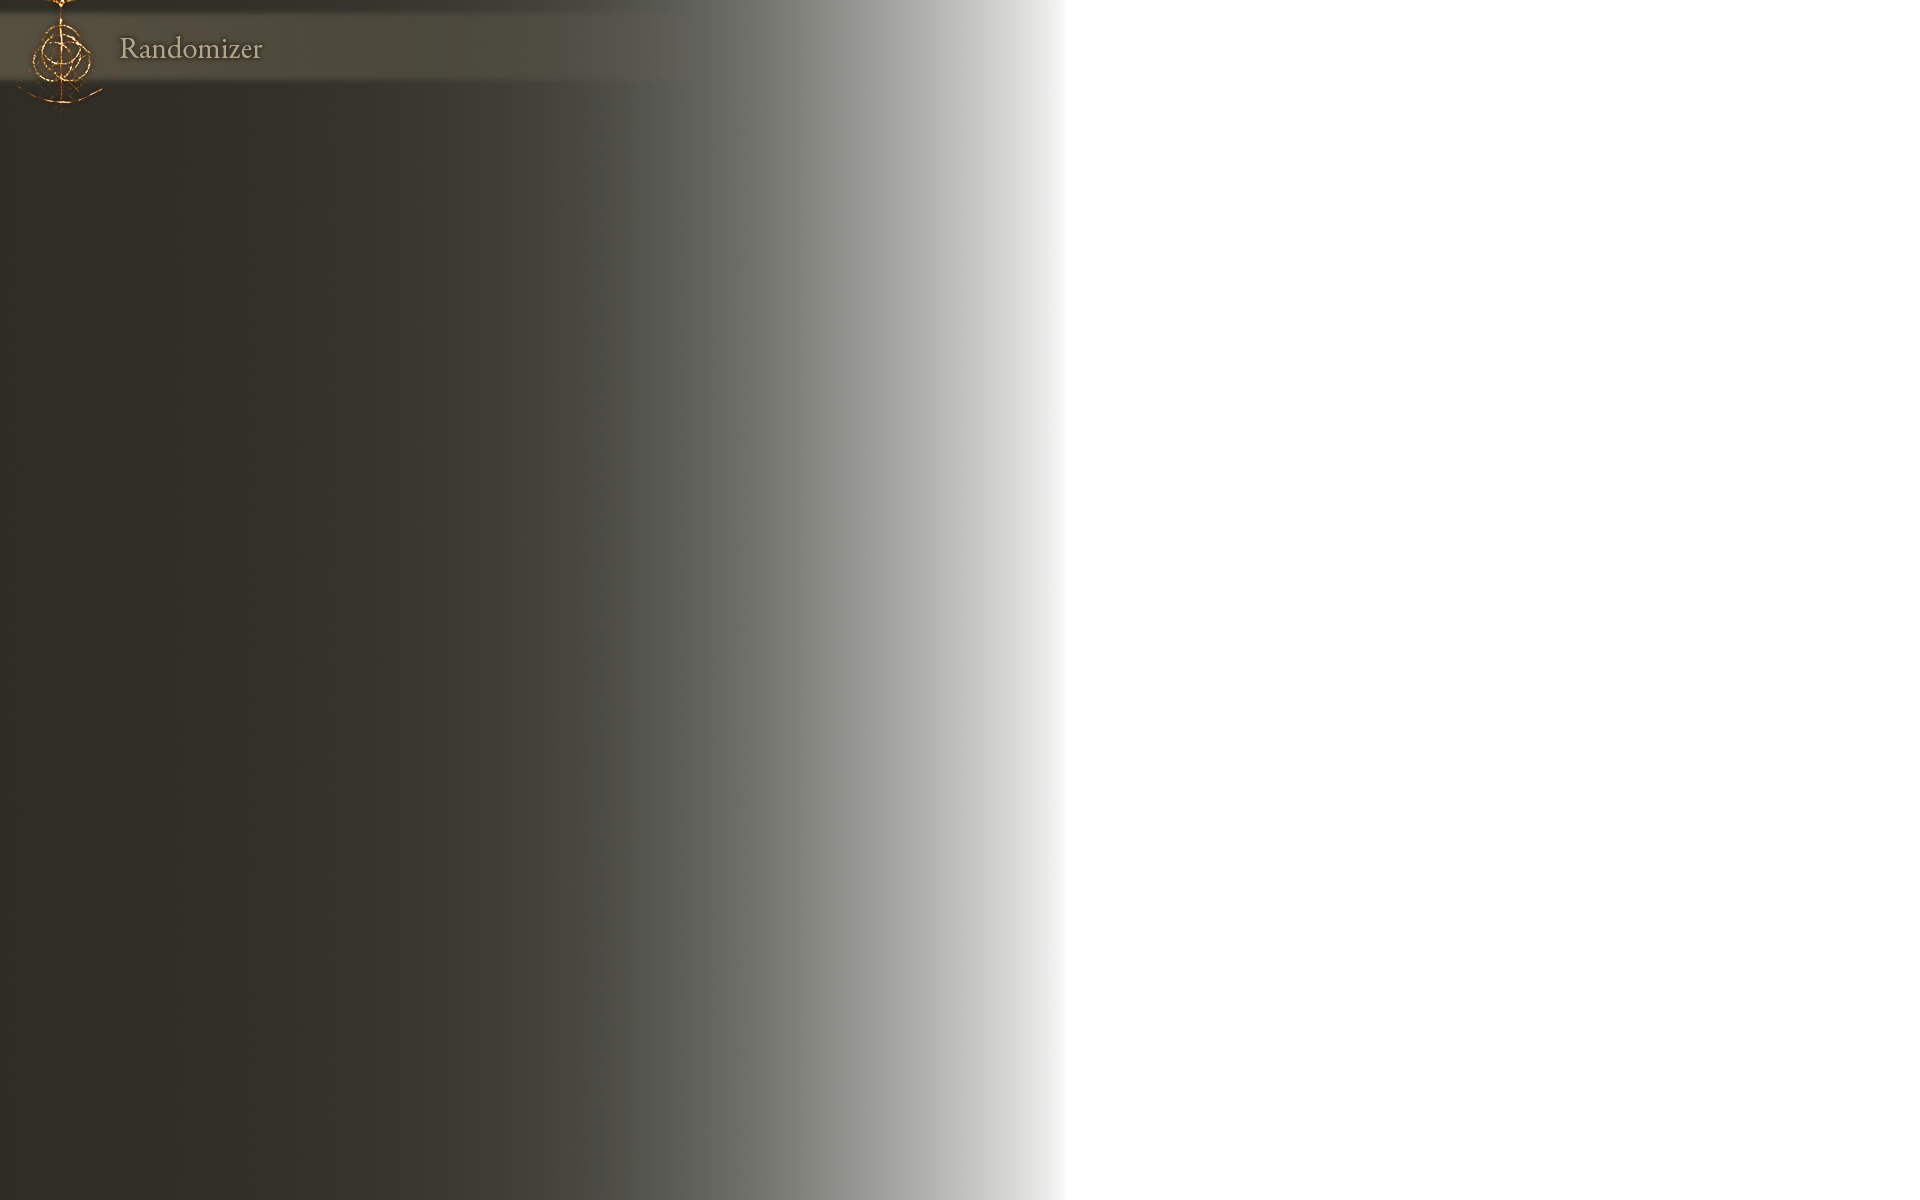
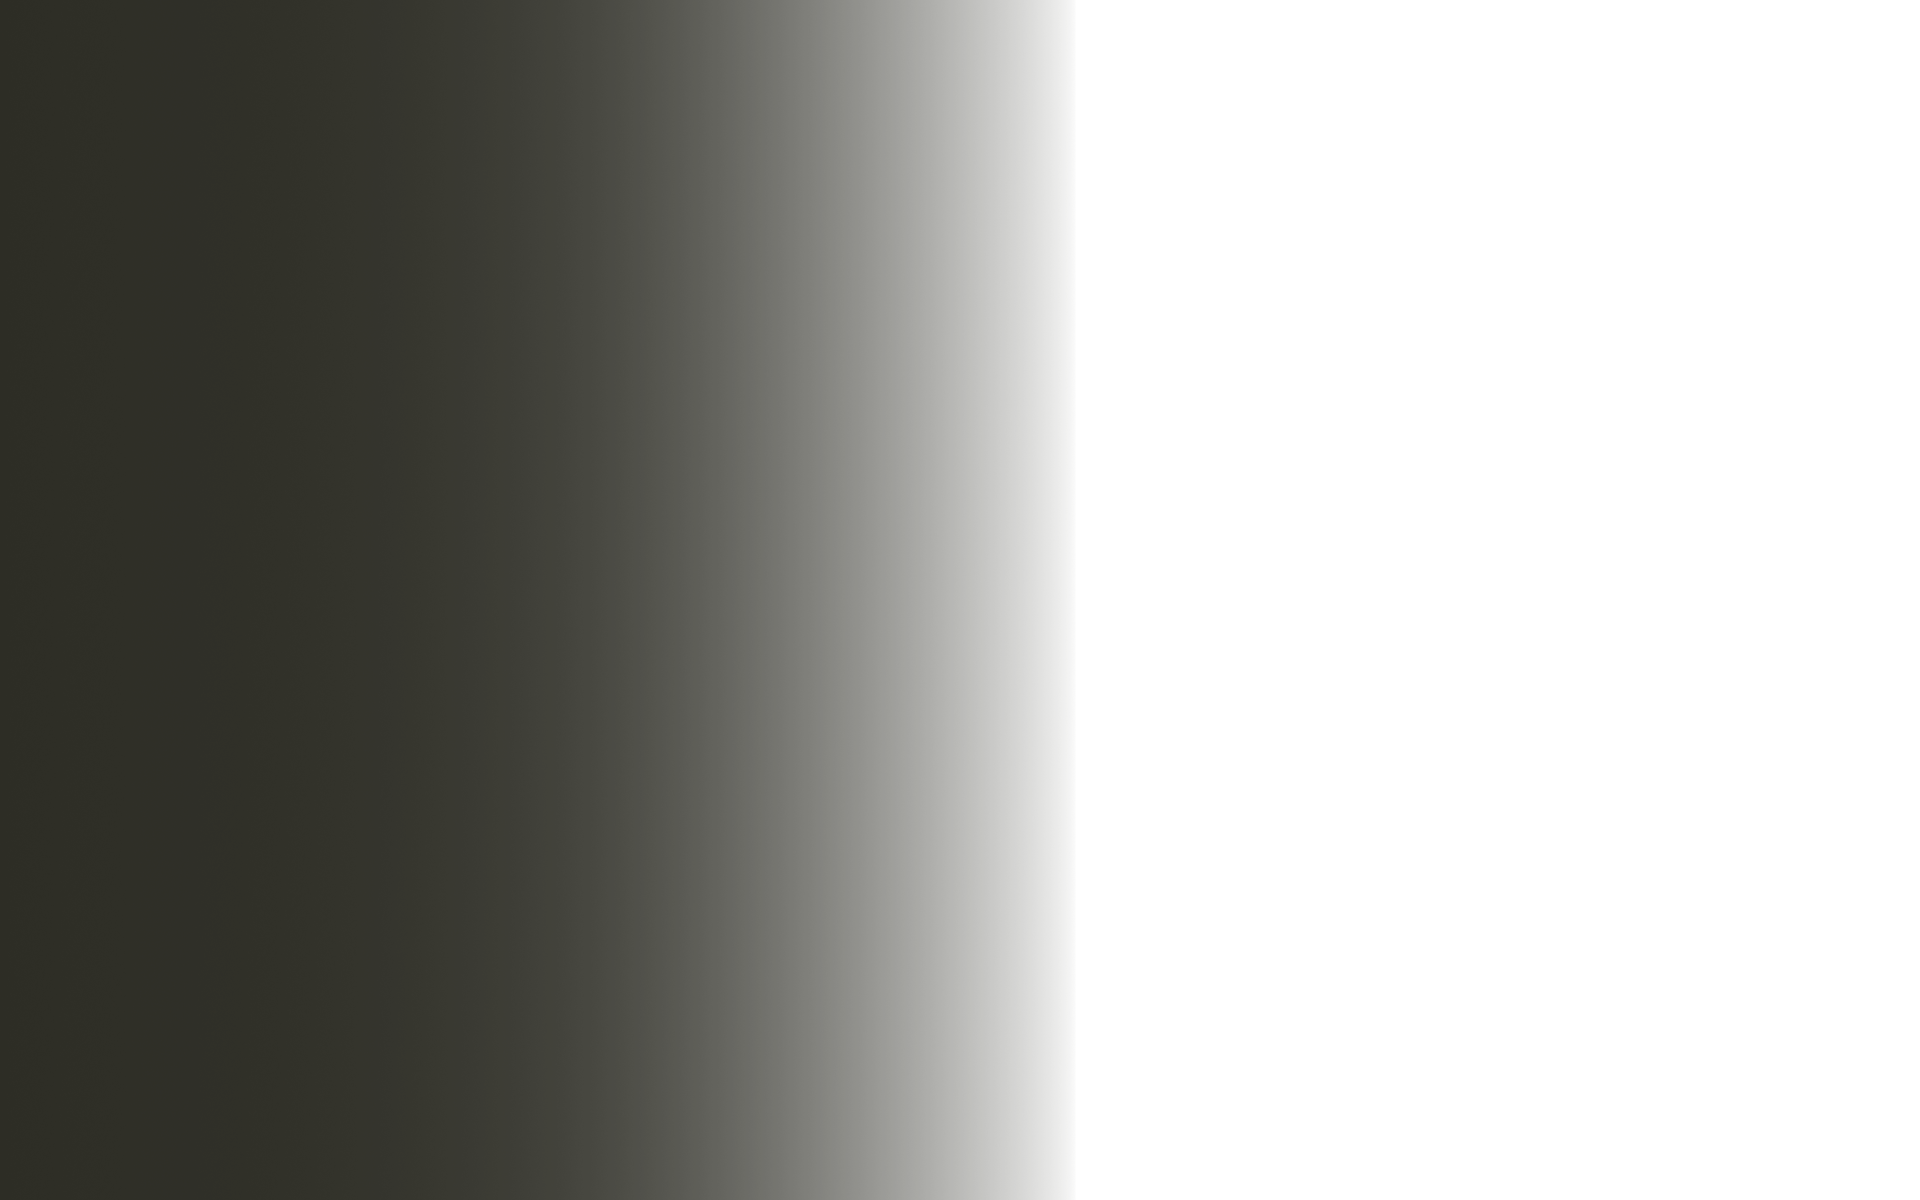
Finished Facial Structure section of ui code, starting on Forehead/Glabella section

Changed region(s): [[0.0, 0.0, 0.2188, 0.0925]]

diff --git a/eldenRandomizer.py b/eldenRandomizer.py
@@ -27,6 +27,7 @@ title_img = pygame.image.load('images/title.png')
 #textShadow = pygame.image.load('images/textShadow.png')
 #shadowSize = textShadow.get_width(), textShadow.get_height()
 randResults_grad = pygame.image.load('images/randomizerScreen_gradient.png')
+randResults_grad_title = pygame.image.load('images/randomizerScreen_gradient_title.png')
 #randResults_screen = pygame.transform.scale(randResults_grad, (1920, 1200))
 
 #Button Class
@@ -70,51 +71,115 @@ def main():
     bonestructure_results = button_font.render(str(attributes[6][0]), True, (200,200,198))
     bonestructure_w, bonestructure_h = button_font.size(str(attributes[6][0]))
 
+    formemphasis_results = button_font.render(str(attributes[6][1]), True, (200,200,198))
+    formemphasis_w, formemphasis_h = button_font.size(str(attributes[6][1]))
+
+    apparent_age_results = button_font.render(str(attributes[6][2]), True, (200,200,198))
+    apparent_age_w, apparent_age_h = button_font.size(str(attributes[6][2]))
+
+    facial_aesthetic_results = button_font.render(str(attributes[6][3]), True, (200,200,198))
+    facial_aesthetic_w, facial_aesthetic_h = button_font.size(str(attributes[6][3]))
+
+    nose_size_results = button_font.render(str(attributes[7][0][0]), True, (200,200,198))
+    nose_size_w, nose_size_h = button_font.size(str(attributes[7][0][0]))
+
+    nf_ratio_results = button_font.render(str(attributes[7][0][1]), True, (200,200,198))
+    nf_ratio_w, nf_ratio_h = button_font.size(str(attributes[7][0][1]))
+
+    face_prot_results = button_font.render(str(attributes[7][0][2]), True, (200,200,198))
+    face_prot_w, face_prot_h = button_font.size(str(attributes[7][0][2]))
+
+    vface_ratio_results = button_font.render(str(attributes[7][0][3]), True, (200,200,198))
+    vface_ratio_w, vface_ratio_h = button_font.size(str(attributes[7][0][3]))
+
+    faceSlant_results = button_font.render(str(attributes[7][0][4]), True, (200,200,198))
+    faceSlant_w, faceSlant_h = button_font.size(str(attributes[7][0][4]))
+
+    hFaceRatio_results = button_font.render(str(attributes[7][0][5]), True, (200,200,198))
+    hFaceRatio_w, hFaceRatio_h = button_font.size(str(attributes[7][0][5]))
+
+    foreheadDepth_results = button_font.render(str(attributes[7][1][0]), True, (200,200,198))
+    foreheadDepth_w, foreheadDepth_h = button_font.size(str(attributes[7][1][0]))
+
     #skinCol = pygame.draw.rect(screen,attributes[5],(505,401,398,31))
 
     titlePos = ((resolution[0]/2) - (title_img.get_width()/2), 0 + (title_img.get_height()/4))
     isRandButtonClicked = False
     scrollWheel = 0
+    uiOffset = -(77*2)
     while running:
-
-        
-        
         origin_img = pygame.image.load('images/ER_origin.png').convert_alpha()
-        origin_button = button.Button((origin_img.get_width()/2) - (origin_img.get_width()/3) + 77,
+        origin_button = button.Button((origin_img.get_width()/2) - (origin_img.get_width()/3) + 77 + uiOffset,
                                     213+60+scrollWheel,origin_img,1)
-        
         bodytype_img = pygame.image.load('images/ER_bodytype.png').convert_alpha()
-        bodytype_button = button.Button((bodytype_img.get_width()/2) - (bodytype_img.get_width()/3) + 77,
+        bodytype_button = button.Button((bodytype_img.get_width()/2) - (bodytype_img.get_width()/3) + 77 + uiOffset,
                                     213+(60*2)+scrollWheel,bodytype_img,1)
-        
         keepsake_img = pygame.image.load('images/ER_keepsake.png').convert_alpha()
-        keepsake_button = button.Button((keepsake_img.get_width()/2) - (keepsake_img.get_width()/3) + 77,
+        keepsake_button = button.Button((keepsake_img.get_width()/2) - (keepsake_img.get_width()/3) + 77 + uiOffset,
                                     213+(60*3)+scrollWheel,keepsake_img,1)
-        
         detailed_appearance_img = pygame.image.load('images/ER_detailedAppearance.png').convert_alpha()
-        detailed_appearance_button = button.Button((detailed_appearance_img.get_width()/2) - (detailed_appearance_img.get_width()/3) + 77,
+        detailed_appearance_button = button.Button((detailed_appearance_img.get_width()/2) - (detailed_appearance_img.get_width()/3) + 77 + uiOffset,
                                     213+(60*5)+scrollWheel,detailed_appearance_img,1)
-        
         age_img = pygame.image.load('images/ER_age.png').convert_alpha()
-        age_button = button.Button((age_img.get_width()/2) - (age_img.get_width()/3) + (77*2),
+        age_button = button.Button((age_img.get_width()/2) - (age_img.get_width()/3) + (77*2) + uiOffset,
                                     213+(60*6)+scrollWheel,age_img,1)
-        
         voice_img = pygame.image.load('images/ER_voice.png').convert_alpha()
-        voice_button = button.Button((voice_img.get_width()/2) - (voice_img.get_width()/3) + (77*2),
+        voice_button = button.Button((voice_img.get_width()/2) - (voice_img.get_width()/3) + (77*2) + uiOffset,
                                     213+(60*7)+scrollWheel,voice_img,1)
-        
         skinCol_img = pygame.image.load('images/ER_skincol.png').convert_alpha()
-        skinCol_button = button.Button((skinCol_img.get_width()/2) - (skinCol_img.get_width()/3) + (77*2),
+        skinCol_button = button.Button((skinCol_img.get_width()/2) - (skinCol_img.get_width()/3) + (77*2) + uiOffset,
                                     213+(60*8)+scrollWheel,skinCol_img,1)
         face_hair_img = pygame.image.load('images/ER_face-hair.png').convert_alpha()
-        face_hair_button = button.Button((face_hair_img.get_width()/2) - (face_hair_img.get_width()/3) + (77),
+        face_hair_button = button.Button((face_hair_img.get_width()/2) - (face_hair_img.get_width()/3) + (77) + uiOffset,
                                     213+(60*9)+scrollWheel,face_hair_img,1)
         facetemplate_img = pygame.image.load('images/ER_facetemplate.png').convert_alpha()
-        facetemplate_button = button.Button((facetemplate_img.get_width()/2) - (facetemplate_img.get_width()/3) + (77*2),
+        facetemplate_button = button.Button((facetemplate_img.get_width()/2) - (facetemplate_img.get_width()/3) + (77*2) + uiOffset,
                                     213+(60*10)+scrollWheel,facetemplate_img,1)
         bonestructure_img = pygame.image.load('images/ER_bonestructure.png').convert_alpha()
-        bonestructure_button = button.Button((bonestructure_img.get_width()/2) - (bonestructure_img.get_width()/3) + (77*3),
+        bonestructure_button = button.Button((bonestructure_img.get_width()/2) - (bonestructure_img.get_width()/3) + (77*3) + uiOffset,
                                     213+(60*11)+scrollWheel,bonestructure_img,1)
+        formemphasis_img = pygame.image.load('images/ER_formemphasis.png').convert_alpha()
+        formemphasis_button = button.Button((formemphasis_img.get_width()/2) - (formemphasis_img.get_width()/3) + (77*3) + uiOffset,
+                                    213+(60*12)+scrollWheel,formemphasis_img,1)
+        apparent_age_img = pygame.image.load('images/ER_apparent_age.png').convert_alpha()
+        apparent_age_button = button.Button((apparent_age_img.get_width()/2) - (apparent_age_img.get_width()/3) + (77*3) + uiOffset,
+                                    213+(60*13)+scrollWheel,apparent_age_img,1)
+        facial_aesthetic_img = pygame.image.load('images/ER_facial-aesthetic.png').convert_alpha()
+        facial_aesthetic_button = button.Button((facial_aesthetic_img.get_width()/2) - (facial_aesthetic_img.get_width()/3) + (77*3) + uiOffset,
+                                    213+(60*14)+scrollWheel,facial_aesthetic_img,1)
+        
+        facialstructure_img = pygame.image.load('images/ER_facialstructure.png').convert_alpha()
+        facialstructure_button = button.Button((facialstructure_img.get_width()/2) - (facialstructure_img.get_width()/3) + (77*2) + uiOffset,
+                                    213+(60*15)+scrollWheel,facialstructure_img,1)
+        
+        facialbalance_img = pygame.image.load('images/ER_facialbalance.png').convert_alpha()
+        facialbalance_button = button.Button((facialbalance_img.get_width()/2) - (facialbalance_img.get_width()/3) + (77*3) + uiOffset,
+                                    213+(60*16)+scrollWheel,facialbalance_img,1)
+        nose_size_img = pygame.image.load('images/ER_nose_size.png').convert_alpha()
+        nose_size_button = button.Button((nose_size_img.get_width()/2) - (nose_size_img.get_width()/3) + (77*4) + uiOffset,
+                                    213+(60*17)+scrollWheel,nose_size_img,1)
+        nf_ratio_img = pygame.image.load('images/ER_nose_forehead_ratio.png').convert_alpha()
+        nf_ratio_button = button.Button((nf_ratio_img.get_width()/2) - (nf_ratio_img.get_width()/3) + (77*4) + uiOffset,
+                                    213+(60*18)+scrollWheel,nf_ratio_img,1)
+        face_prot_img = pygame.image.load('images/ER_face_protrusion.png').convert_alpha()
+        face_prot_button = button.Button((face_prot_img.get_width()/2) - (face_prot_img.get_width()/3) + (77*4) + uiOffset,
+                                    213+(60*19)+scrollWheel,face_prot_img,1)
+        vface_ratio_img = pygame.image.load('images/ER_vert_face_ratio.png').convert_alpha()
+        vface_ratio_button = button.Button((vface_ratio_img.get_width()/2) - (vface_ratio_img.get_width()/3) + (77*4) + uiOffset,
+                                    213+(60*20)+scrollWheel,vface_ratio_img,1)
+        faceSlant_img = pygame.image.load('images/ER_facial_feature_slant.png').convert_alpha()
+        faceSlant_button = button.Button((faceSlant_img.get_width()/2) - (faceSlant_img.get_width()/3) + (77*4) + uiOffset,
+                                    213+(60*21)+scrollWheel,faceSlant_img,1)
+        hFaceRatio_img = pygame.image.load('images/ER_horiz_face_ratio.png').convert_alpha()
+        hFaceRatio_button = button.Button((hFaceRatio_img.get_width()/2) - (hFaceRatio_img.get_width()/3) + (77*4) + uiOffset,
+                                    213+(60*22)+scrollWheel,hFaceRatio_img,1)
+        foreheadGlabella_img = pygame.image.load('images/ER_forehead-glabella.png').convert_alpha()
+        foreheadGlabella_button = button.Button((foreheadGlabella_img.get_width()/2) - (foreheadGlabella_img.get_width()/3) + (77*3) + uiOffset,
+                                    213+(60*23)+scrollWheel,foreheadGlabella_img,1)
+        foreheadDepth_img = pygame.image.load('images/ER_forehead_depth.png').convert_alpha()
+        foreheadDepth_button = button.Button((foreheadDepth_img.get_width()/2) - (foreheadDepth_img.get_width()/3) + (77*4) + uiOffset,
+                                    213+(60*24)+scrollWheel,foreheadDepth_img,1)
+        
         #Randomizer Results Screen
         if randomize_button.draw(screen) == True or isRandButtonClicked == True:
             isRandButtonClicked = True
@@ -123,45 +188,104 @@ def main():
                                         ((resolution[1]) - (randResults_grad.get_height()))))
             origin_button.draw(screen)
             screen.blit(origin_results, 
-                        (((origin_img.get_width())*(1-0.44326617179)) + (199) + (origin_w/2),
+                        (((origin_img.get_width())*(1-0.44326617179)) + (199) + (origin_w/2) + uiOffset,
                         213+(60*1)+(origin_h/2.5)+scrollWheel))
             
             bodytype_button.draw(screen)
             screen.blit(bodytype_results, 
-                        (((bodytype_img.get_width())*(1-0.44326617179)) + (199) + (bodytype_w/2),
+                        (((bodytype_img.get_width())*(1-0.44326617179)) + (199) + (bodytype_w/2) + uiOffset,
                         213+(60*2)+(bodytype_h/2.5)+scrollWheel))
             
             keepsake_button.draw(screen)
             screen.blit(keepsake_results, 
-                        (((keepsake_img.get_width())*(1-0.44326617179)) + (199) + (keepsake_w/2),
+                        (((keepsake_img.get_width())*(1-0.44326617179)) + (199) + (keepsake_w/2) + uiOffset,
                         213+(60*3)+(keepsake_h/2.5)+scrollWheel))
             
             detailed_appearance_button.draw(screen)
 
             age_button.draw(screen)
             screen.blit(age_results, 
-                        (((age_img.get_width())*(1-0.44326617179)) + (77/(1-0.38693467336)) + (199) + (age_w/2),
+                        (((age_img.get_width())*(1-0.44326617179)) + (77/(1-0.38693467336)) + (199) + (age_w/2) + uiOffset,
                         213+(60*6)+(age_h/2.5)+scrollWheel))
             
             voice_button.draw(screen)
             screen.blit(voice_results, 
-                        (((voice_img.get_width())*(1-0.44326617179)) + (77/(1-0.38693467336)) + (199) + (voice_w/2),
+                        (((voice_img.get_width())*(1-0.44326617179)) + (77/(1-0.38693467336)) + (199) + (voice_w/2) + uiOffset,
                         213+(60*7)+(voice_h/2.5)+scrollWheel))
             
             skinCol_x = 505 - 42 + 154 + (77/2) + 5 + (77/(1))
             skinCol_y = 401+40-(age_img.get_height()/2) + (60*5)
             skinCol_button.draw(screen)
-            pygame.draw.rect(screen,attributes[5],(skinCol_x,skinCol_y+scrollWheel,380,31))
+            pygame.draw.rect(screen,attributes[5],(skinCol_x + uiOffset,skinCol_y+scrollWheel,380,31))
 
+            # Adjust Face/Hair Section
             face_hair_button.draw(screen)
 
+            ## Face Template Section
             facetemplate_button.draw(screen)
 
             bonestructure_button.draw(screen)
             screen.blit(bonestructure_results, 
-                        (((bonestructure_img.get_width())*(1-0.44326617179)) + (77/(1-0.38693467336))*3 + (199) + (bonestructure_w/2),
+                        (((bonestructure_img.get_width())*(1-0.44326617179)) + (77/(1-0.38693467336))*3 + (199) - (bonestructure_w*3) + uiOffset,
                         213+(60*11)+(bonestructure_h/2.5)+scrollWheel))
             
+            formemphasis_button.draw(screen)
+            screen.blit(formemphasis_results, 
+                        (((formemphasis_img.get_width())*(1-0.44326617179)) + (77/(1-0.38693467336))*3 + (199) - (formemphasis_w*3) + uiOffset,
+                        213+(60*12)+(formemphasis_h/2.5)+scrollWheel))
+            
+            apparent_age_button.draw(screen)
+            screen.blit(apparent_age_results, 
+                        (((apparent_age_img.get_width())*(1-0.44326617179)) + (77/(1-0.38693467336))*3 + (199) - (apparent_age_w*3) + uiOffset,
+                        213+(60*13)+(apparent_age_h/2.5)+scrollWheel))
+            
+            facial_aesthetic_button.draw(screen)
+            screen.blit(facial_aesthetic_results, 
+                        (((facial_aesthetic_img.get_width())*(1-0.44326617179)) + (77/(1-0.38693467336))*3 + (199) - (facial_aesthetic_w*3) + uiOffset,
+                        213+(60*14)+(facial_aesthetic_h/2.5)+scrollWheel))
+            
+            ## Facial Structure Section
+            facialstructure_button.draw(screen)
+
+            facialbalance_button.draw(screen)
+
+            nose_size_button.draw(screen)
+            screen.blit(nose_size_results, 
+                        (((nose_size_img.get_width())*(1-0.44326617179)) + (77/(1-0.38693467336))*4 + (199) - (nose_size_w*3) + uiOffset,
+                        213+(60*17)+(nose_size_h/2.5)+scrollWheel))
+            nf_ratio_button.draw(screen)
+            screen.blit(nf_ratio_results, 
+                        (((nf_ratio_img.get_width())*(1-0.44326617179)) + (77/(1-0.38693467336))*4 + (199) - (nf_ratio_w*3) + uiOffset,
+                        213+(60*18)+(nf_ratio_h/2.5)+scrollWheel))
+            face_prot_button.draw(screen)
+            screen.blit(face_prot_results, 
+                        (((face_prot_img.get_width())*(1-0.44326617179)) + (77/(1-0.38693467336))*4 + (199) - (face_prot_w*3) + uiOffset,
+                        213+(60*19)+(face_prot_h/2.5)+scrollWheel))
+            vface_ratio_button.draw(screen)
+            screen.blit(vface_ratio_results, 
+                        (((vface_ratio_img.get_width())*(1-0.44326617179)) + (77/(1-0.38693467336))*4 + (199) - (vface_ratio_w*3) + uiOffset,
+                        213+(60*20)+(vface_ratio_h/2.5)+scrollWheel))
+            faceSlant_button.draw(screen)
+            screen.blit(faceSlant_results,
+                        (((faceSlant_img.get_width())*(1-0.44326617179)) + (77/(1-0.38693467336))*4 + (199) - (faceSlant_w*3) + uiOffset,
+                        213+(60*21)+(faceSlant_h/2.5)+scrollWheel))
+            hFaceRatio_button.draw(screen)
+            screen.blit(hFaceRatio_results,
+                        (((hFaceRatio_img.get_width())*(1-0.44326617179)) + (77/(1-0.38693467336))*4 + (199) - (hFaceRatio_w*3) + uiOffset,
+                        213+(60*22)+(hFaceRatio_h/2.5)+scrollWheel))
+            
+            ## Forehead/Glabella Section
+            foreheadGlabella_button.draw(screen)
+
+            foreheadDepth_button.draw(screen)
+            screen.blit(foreheadDepth_results,
+                        (((foreheadDepth_img.get_width())*(1-0.44326617179)) + (77/(1-0.38693467336))*4 + (199) - (foreheadDepth_w*3) + uiOffset,
+                        213+(60*22)+(foreheadDepth_h/2.5)+scrollWheel))
+            
+            # Randomizer Screen Title Overlay
+            screen.blit(randResults_grad_title, (((resolution[0]) - (randResults_grad.get_width())),
+                                        ((resolution[1]) - (randResults_grad_title.get_height()))))
+        #Title Screen
         elif randomize_button.draw(screen) == False and detailed_appearance_button.draw(screen) == False:
             screen.fill((0,0,0))
             #Background and Title
@@ -191,7 +315,7 @@ def main():
             if event.type == pygame.KEYDOWN and pygame.key.get_pressed()[pygame.K_q]:
                 isRandButtonClicked = False
             if event.type == pygame.MOUSEWHEEL:
-                scrollWheel += (event.y)*5
+                scrollWheel += (event.y)*10
 
         pygame.display.update()
 

diff --git a/EldenRandom.py b/EldenRandom.py
@@ -147,7 +147,7 @@ class EldenRandom():
 
     ## Face Structure
 
-    #### EldenRandom.all index: 7 [x][o][o]
+    #### EldenRandom.all index: 7 [7][0][0]
     def facial_structure():
         # Facial Balance
         nose_size = EldenRandom.eldenAttribute(255)
